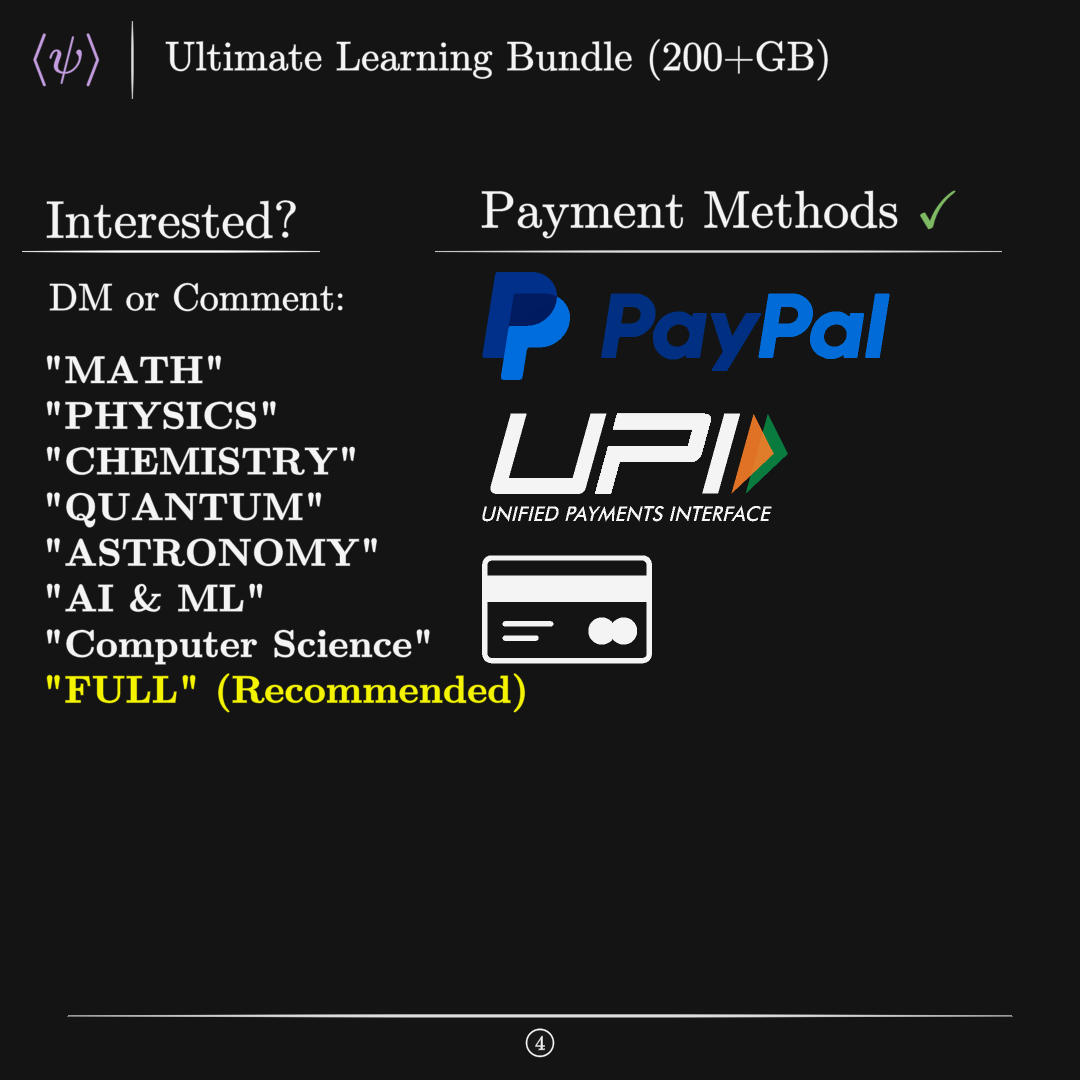
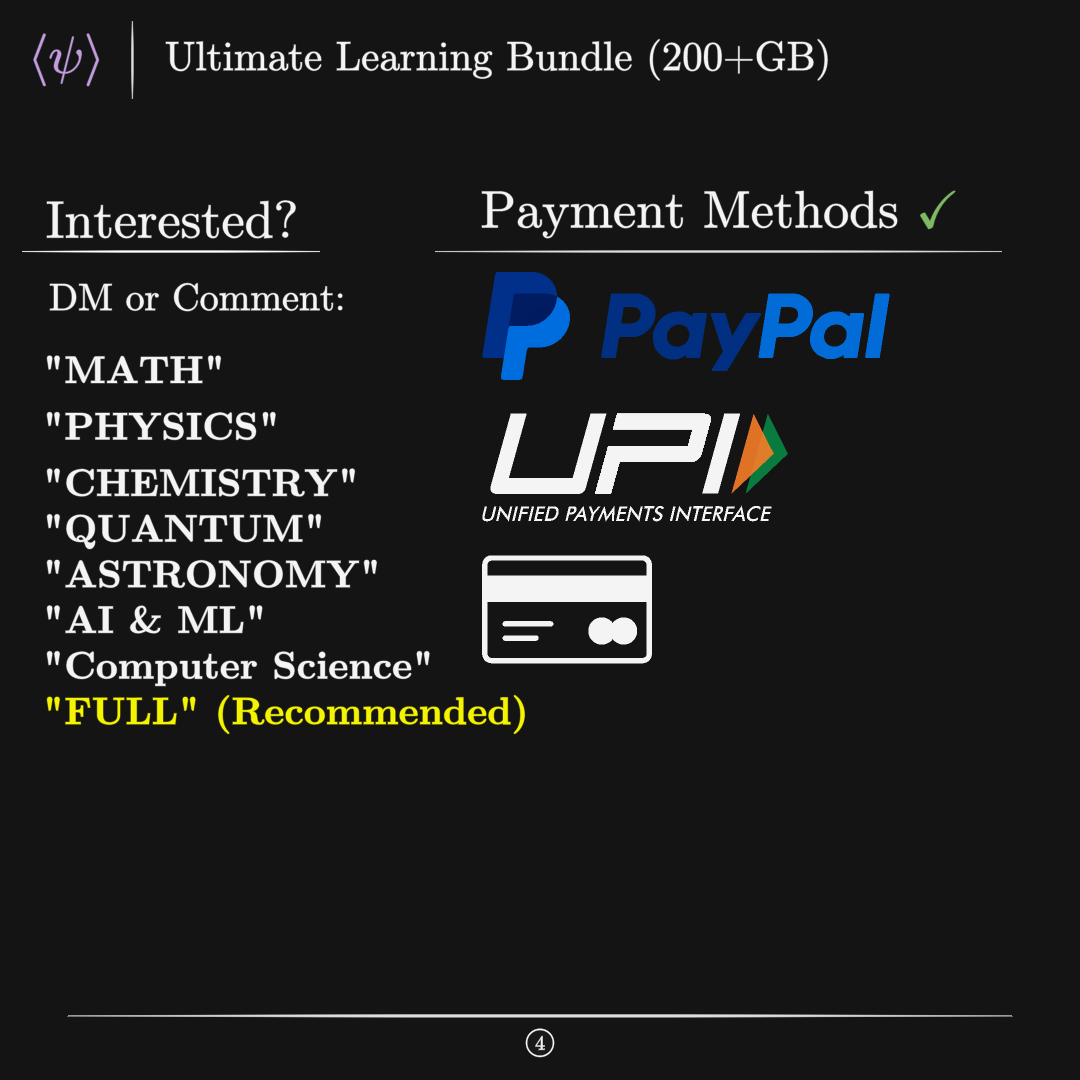
f

Changed region(s): [[0.0306, 0.3667, 0.4889, 0.6722]]

diff --git a/test.py b/test.py
@@ -158,8 +158,8 @@ class Payment(PaidTemplate):
         body = TexText(
             r"""
             DM or Comment:\\[0.25cm]
-            \textbf{"MATH"}\\
-            \textbf{"PHYSICS"}\\
+            \textbf{"MATH"}\\[0.1cm]
+            \textbf{"PHYSICS"}\\[0.1cm]
             \textbf{"CHEMISTRY"}\\
             \textbf{"QUANTUM"}\\
             \textbf{"ASTRONOMY"}\\

diff --git a/latex_cache/working.tex b/latex_cache/working.tex
@@ -28,8 +28,8 @@
 
 \flushleft
 DM or Comment:\\[0.25cm]
-            \textbf{"MATH"}\\
-            \textbf{"PHYSICS"}\\
+            \textbf{"MATH"}\\[0.1cm]
+            \textbf{"PHYSICS"}\\[0.1cm]
             \textbf{"CHEMISTRY"}\\
             \textbf{"QUANTUM"}\\
             \textbf{"ASTRONOMY"}\\
